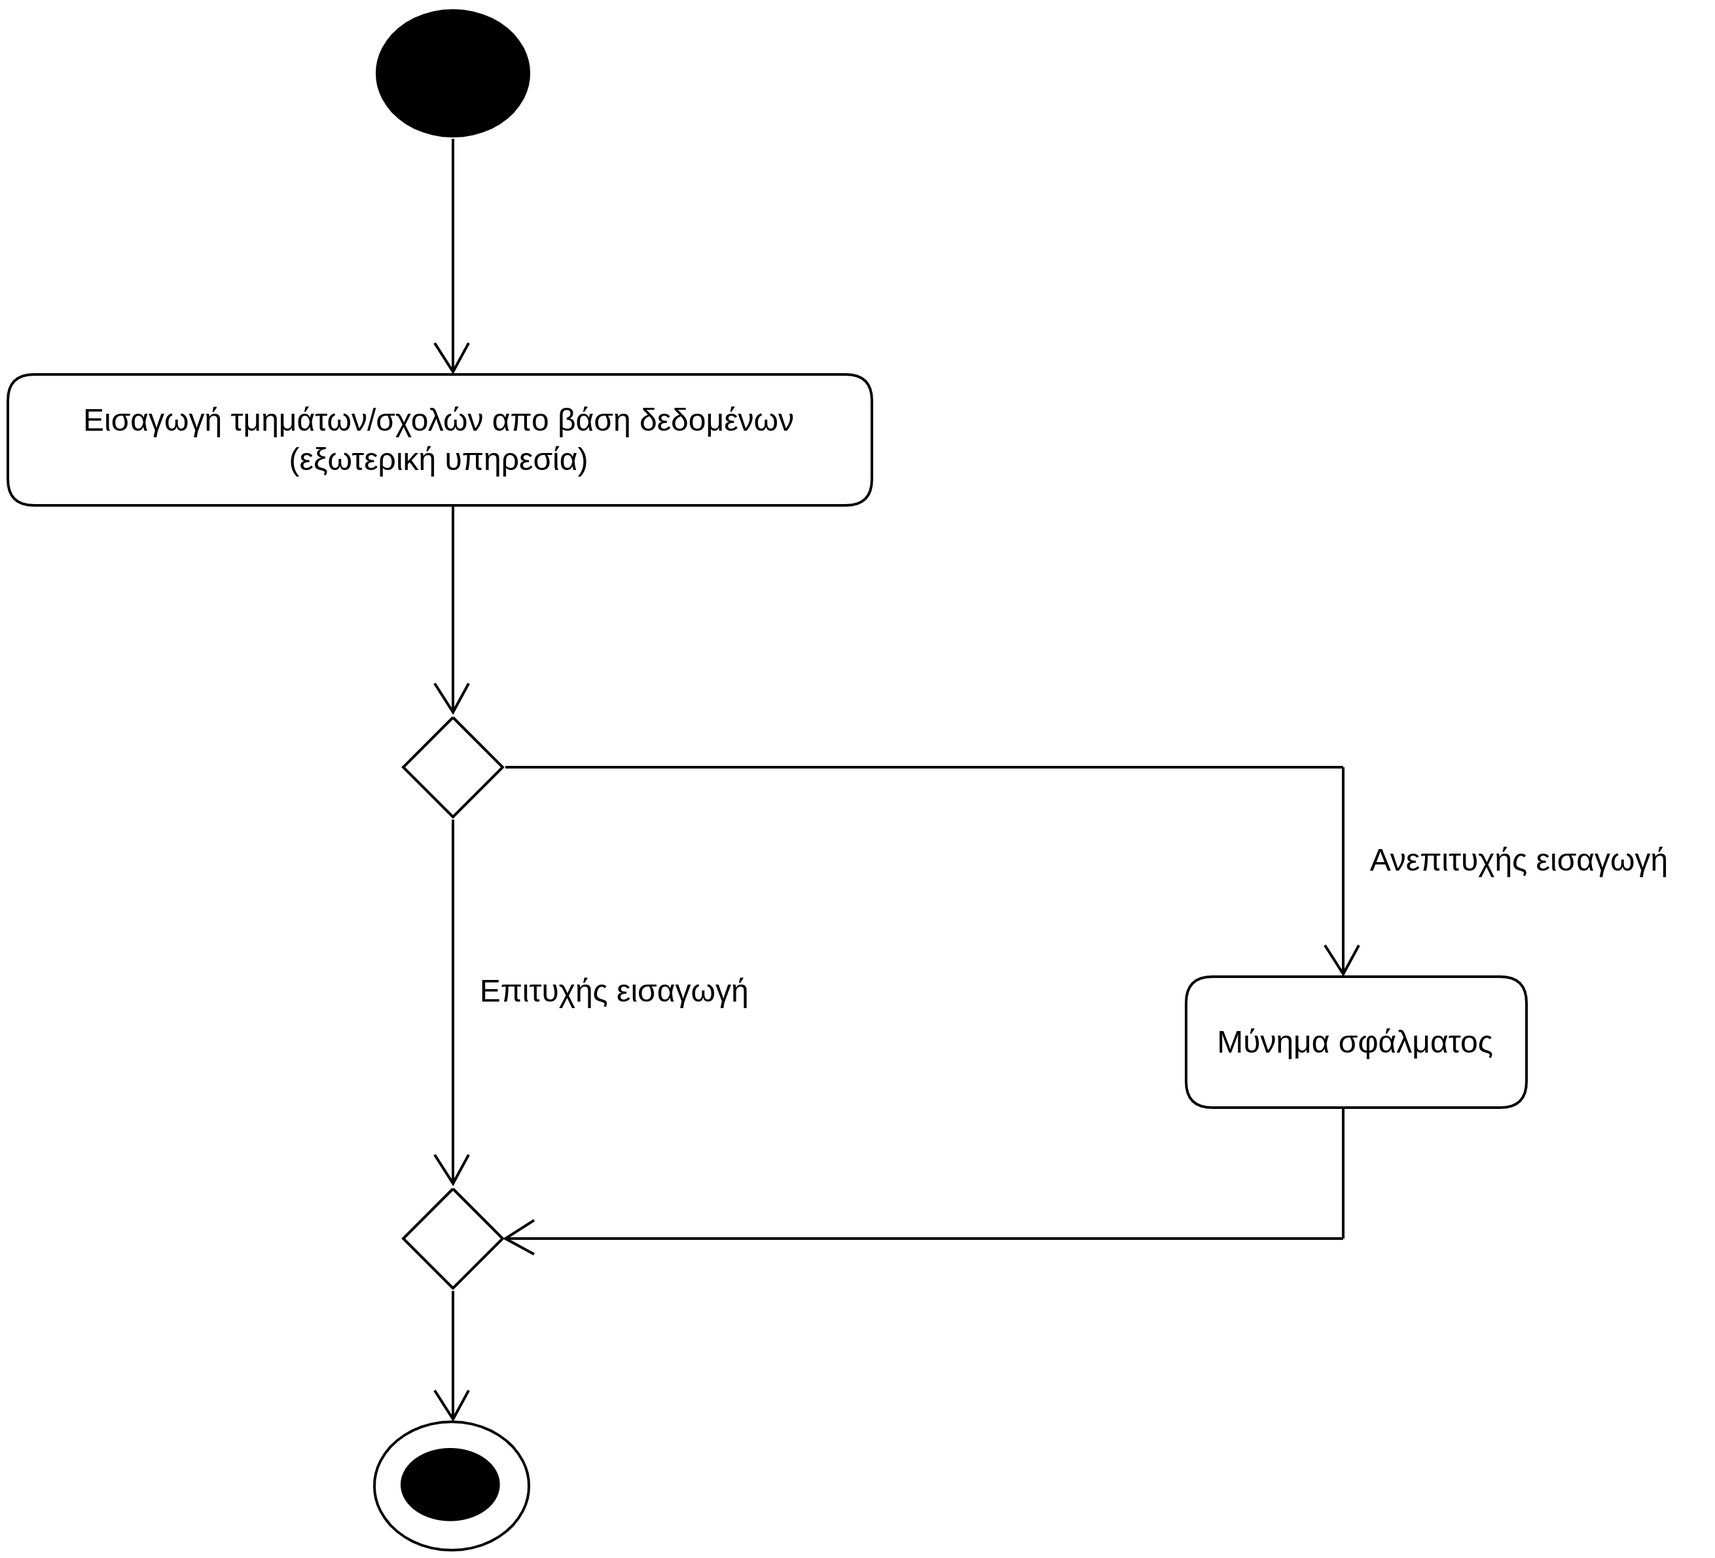
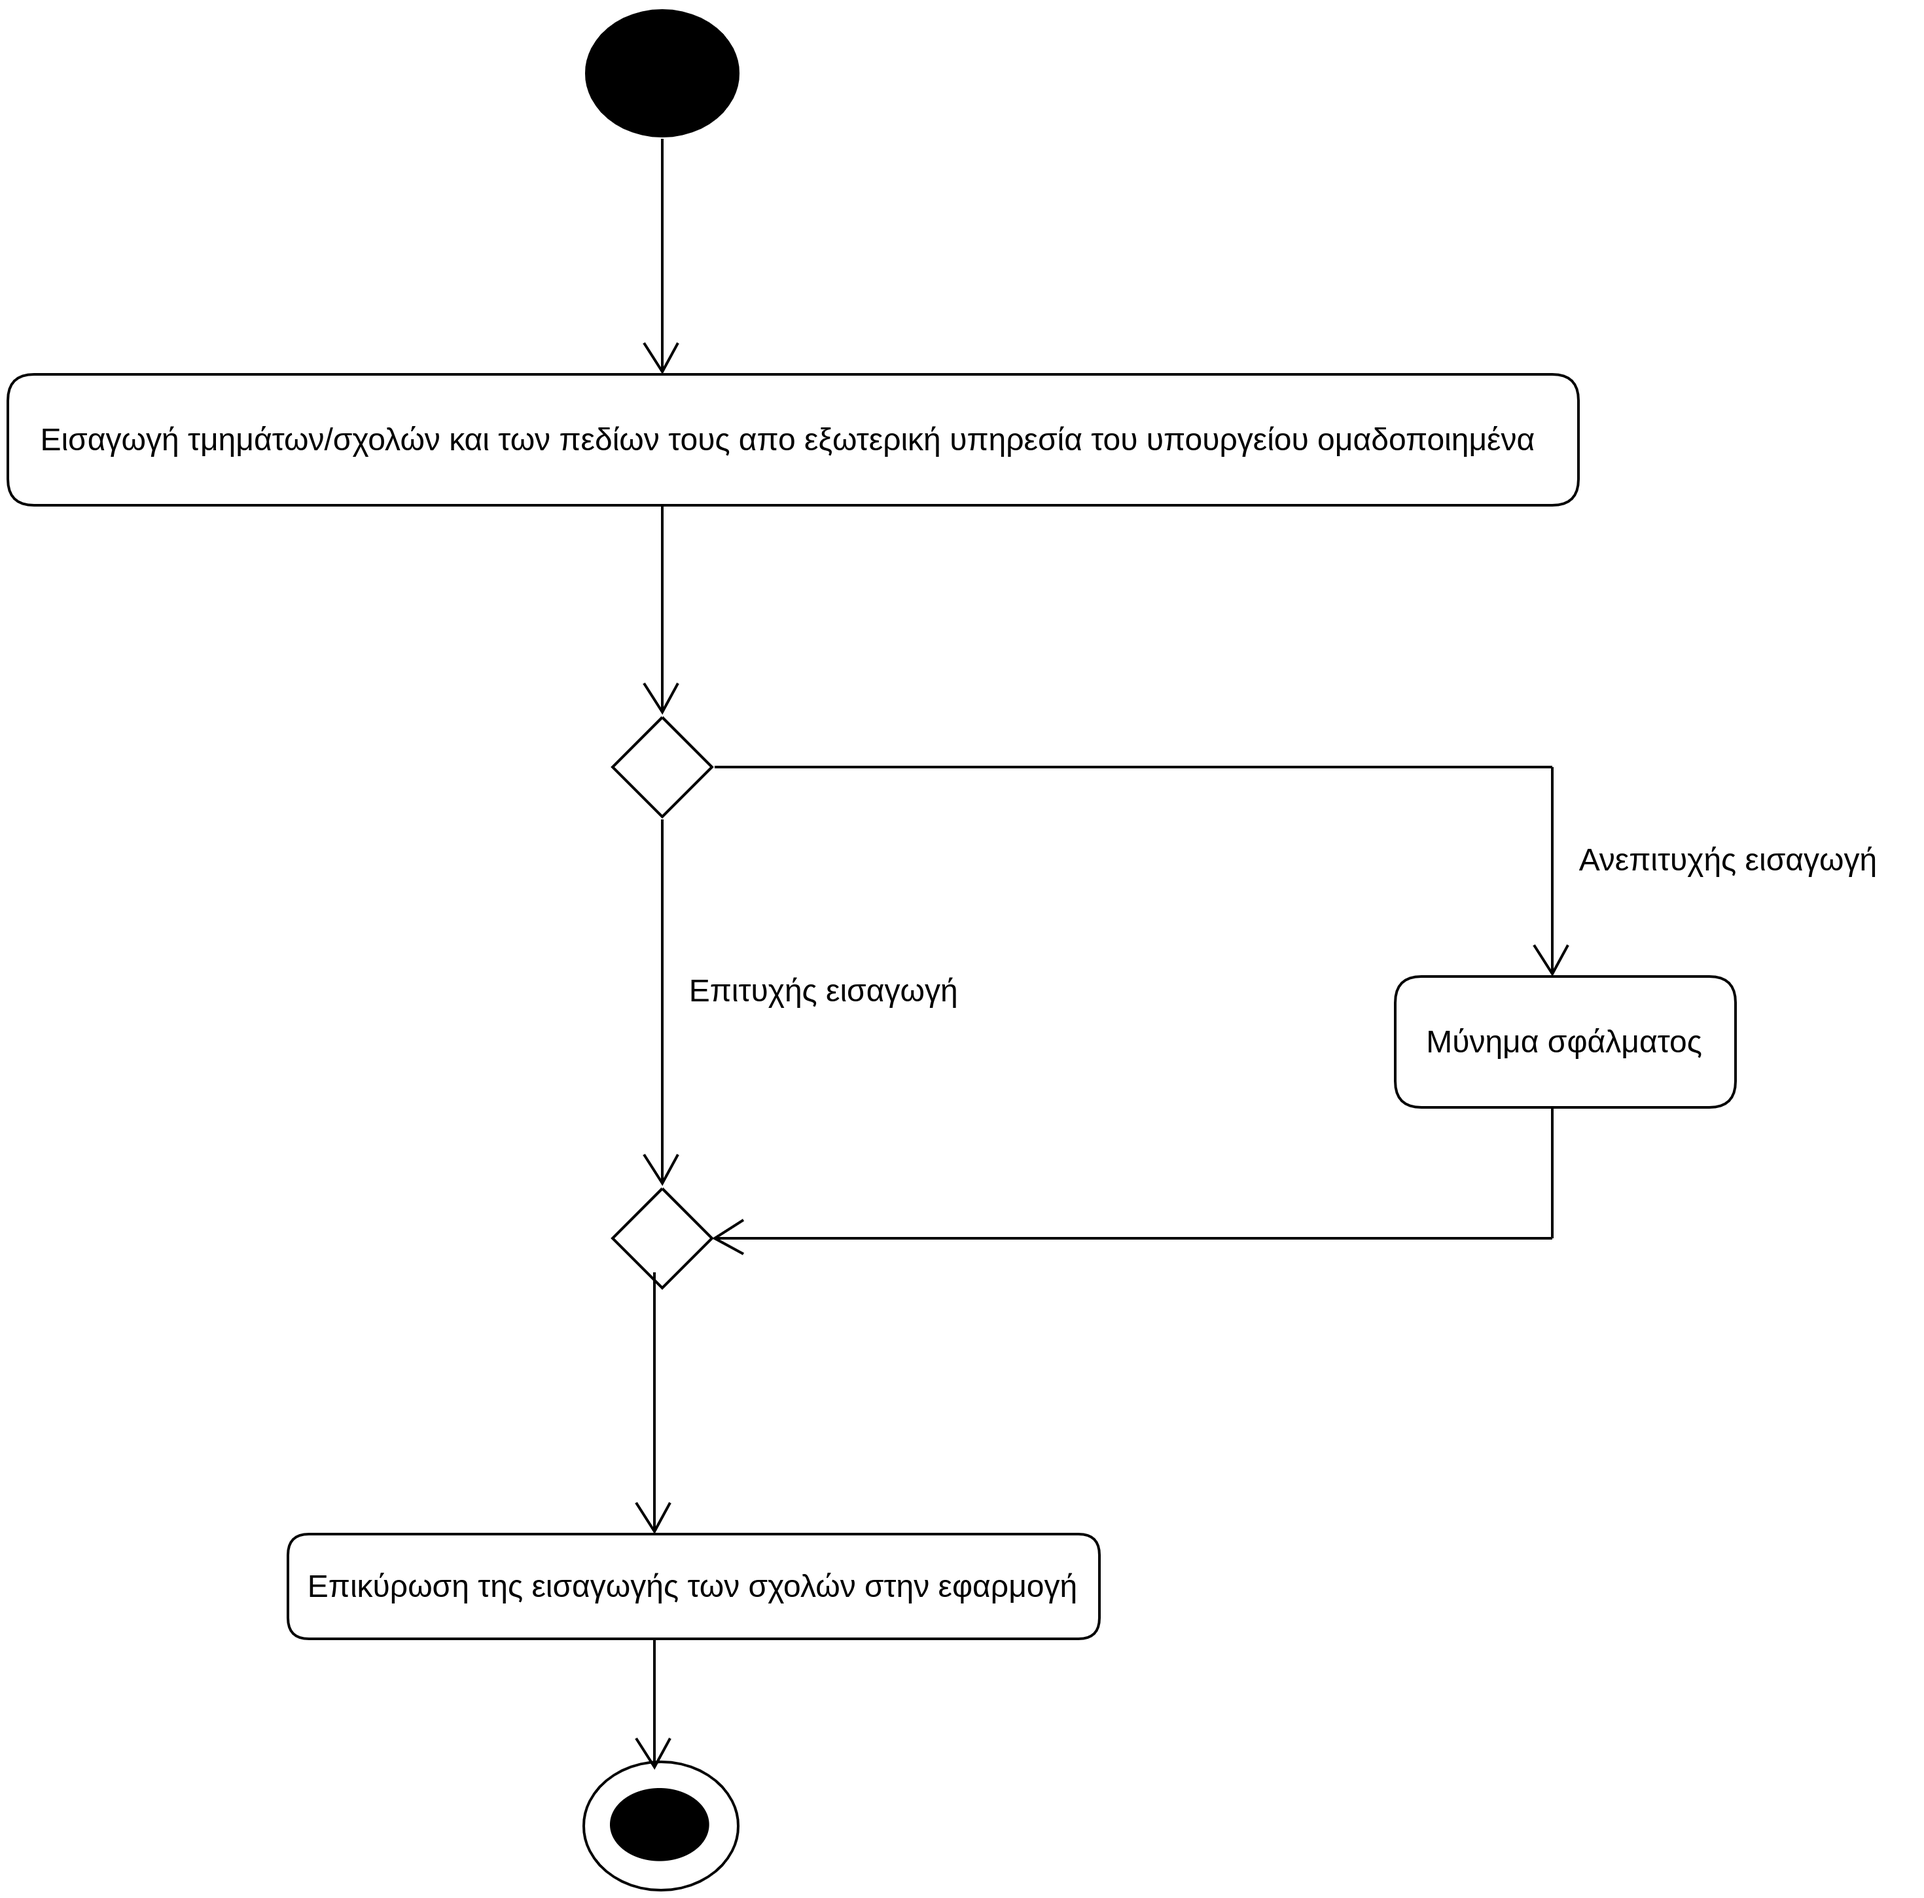
Uc5&Uc6,their activity diagrams,analysis basic classes and sequence candidate modifications

diff --git a/docs/markdown/uc5-insert-departments.md b/docs/markdown/uc5-insert-departments.md
@@ -6,11 +6,8 @@
 **Υποφήφιος**: θέλει να ελέγχει ποίες σχολές είναι διαθέσιμες αυτή την χρονιά ανά επιστημονικό πεδίο καθώς και τα αντίστοιχα στοιχεία τους.
 
 ## Βασική Ροή
-1. Ο Διαχειριστής πέρνει τις σχολές απο έναν πίνακα σε μία βάση δεδομένων
-του υπουργείου
-2. Ο Διαχειριστής τις καταχωρεί στην εφαρμογή ομαδοποιημένα ανα επιστημονικό πεδίο
-ώς πλειάδες απο δεδομένα με αποτέλεσμα την δημιουργία ενός πίνακα όπου κάθε γραμμή
-είναι ένα διαφορετικό/ή τμήμα/σχολή με τα διάφορα χαρακτηριστικά του/ής να αποτελούν τις στήλες.
+1. Ο Διαχειριστής πέρνει τις σχολές και τα υπόλοιπα στοιχεία για κάθε σχολή (όπως κωδικός τμήματος,πανεπιστημιακό ίδρυμα,Ελάχιστη βάση εισαγωγής κλπ) απο εξωτερική υπηρεσία του υπουργείου (ομαδοποιημένα).
+2. Ο Διαχειριστής επικυρώνει την καταχώρηση των σχολών στην εφαρμογή.
 
 **Εναλλακτικές ροές**<br><br/>
 *2α. Σφάλμα κατά την εισαγωγή τμημάτων/σχολών*

diff --git a/docs/markdown/uc6-insert-lessons.md b/docs/markdown/uc6-insert-lessons.md
@@ -5,9 +5,8 @@
 **Βαθμολογητής**: Θέλει να υπάρχουν διαθέσιμα τα μαθήματα για να μπορεί να καταχωρήσει τις βαθμολογίες, έχοντας πρώτα κάνει login.
 
 ## Βασική ροή
-1. Ο διαχειρηστής πέρνει τα μαθήματα απο την βάση.
-2. Ο διαχειριστής εισάγει τα μαθήματα των πανελλαδικών εξετάσεων στο σύστημα για κάθε εξετάζομενο ανά επιστημονικό πεδίο.Όλα αυτα τα δεδομένα βρίσκονται
-   σε μια βάση δεδομένων όπως και οι σχολές, απο την οποία και τα πέρνουμε.
+1. Ο διαχειρηστής εισάγει τα μαθήματα και τα πεδία τους όπως συντελεστή βαρύτητας και το επιστημονικό πεδίο (ομαδοποιημένα) απο μια εξωτερική υπηρεσία του υπουργείου.
+2. Ο διαχειριστής επικυρώνει την εισαγωγή των μαθημάτων στην εφαρμογή.
 
 **Εναλλακτικές ροές**<br><br/>
 *2α. Σφάλμα κατά την εισαγωγή των μαθημάτων*
